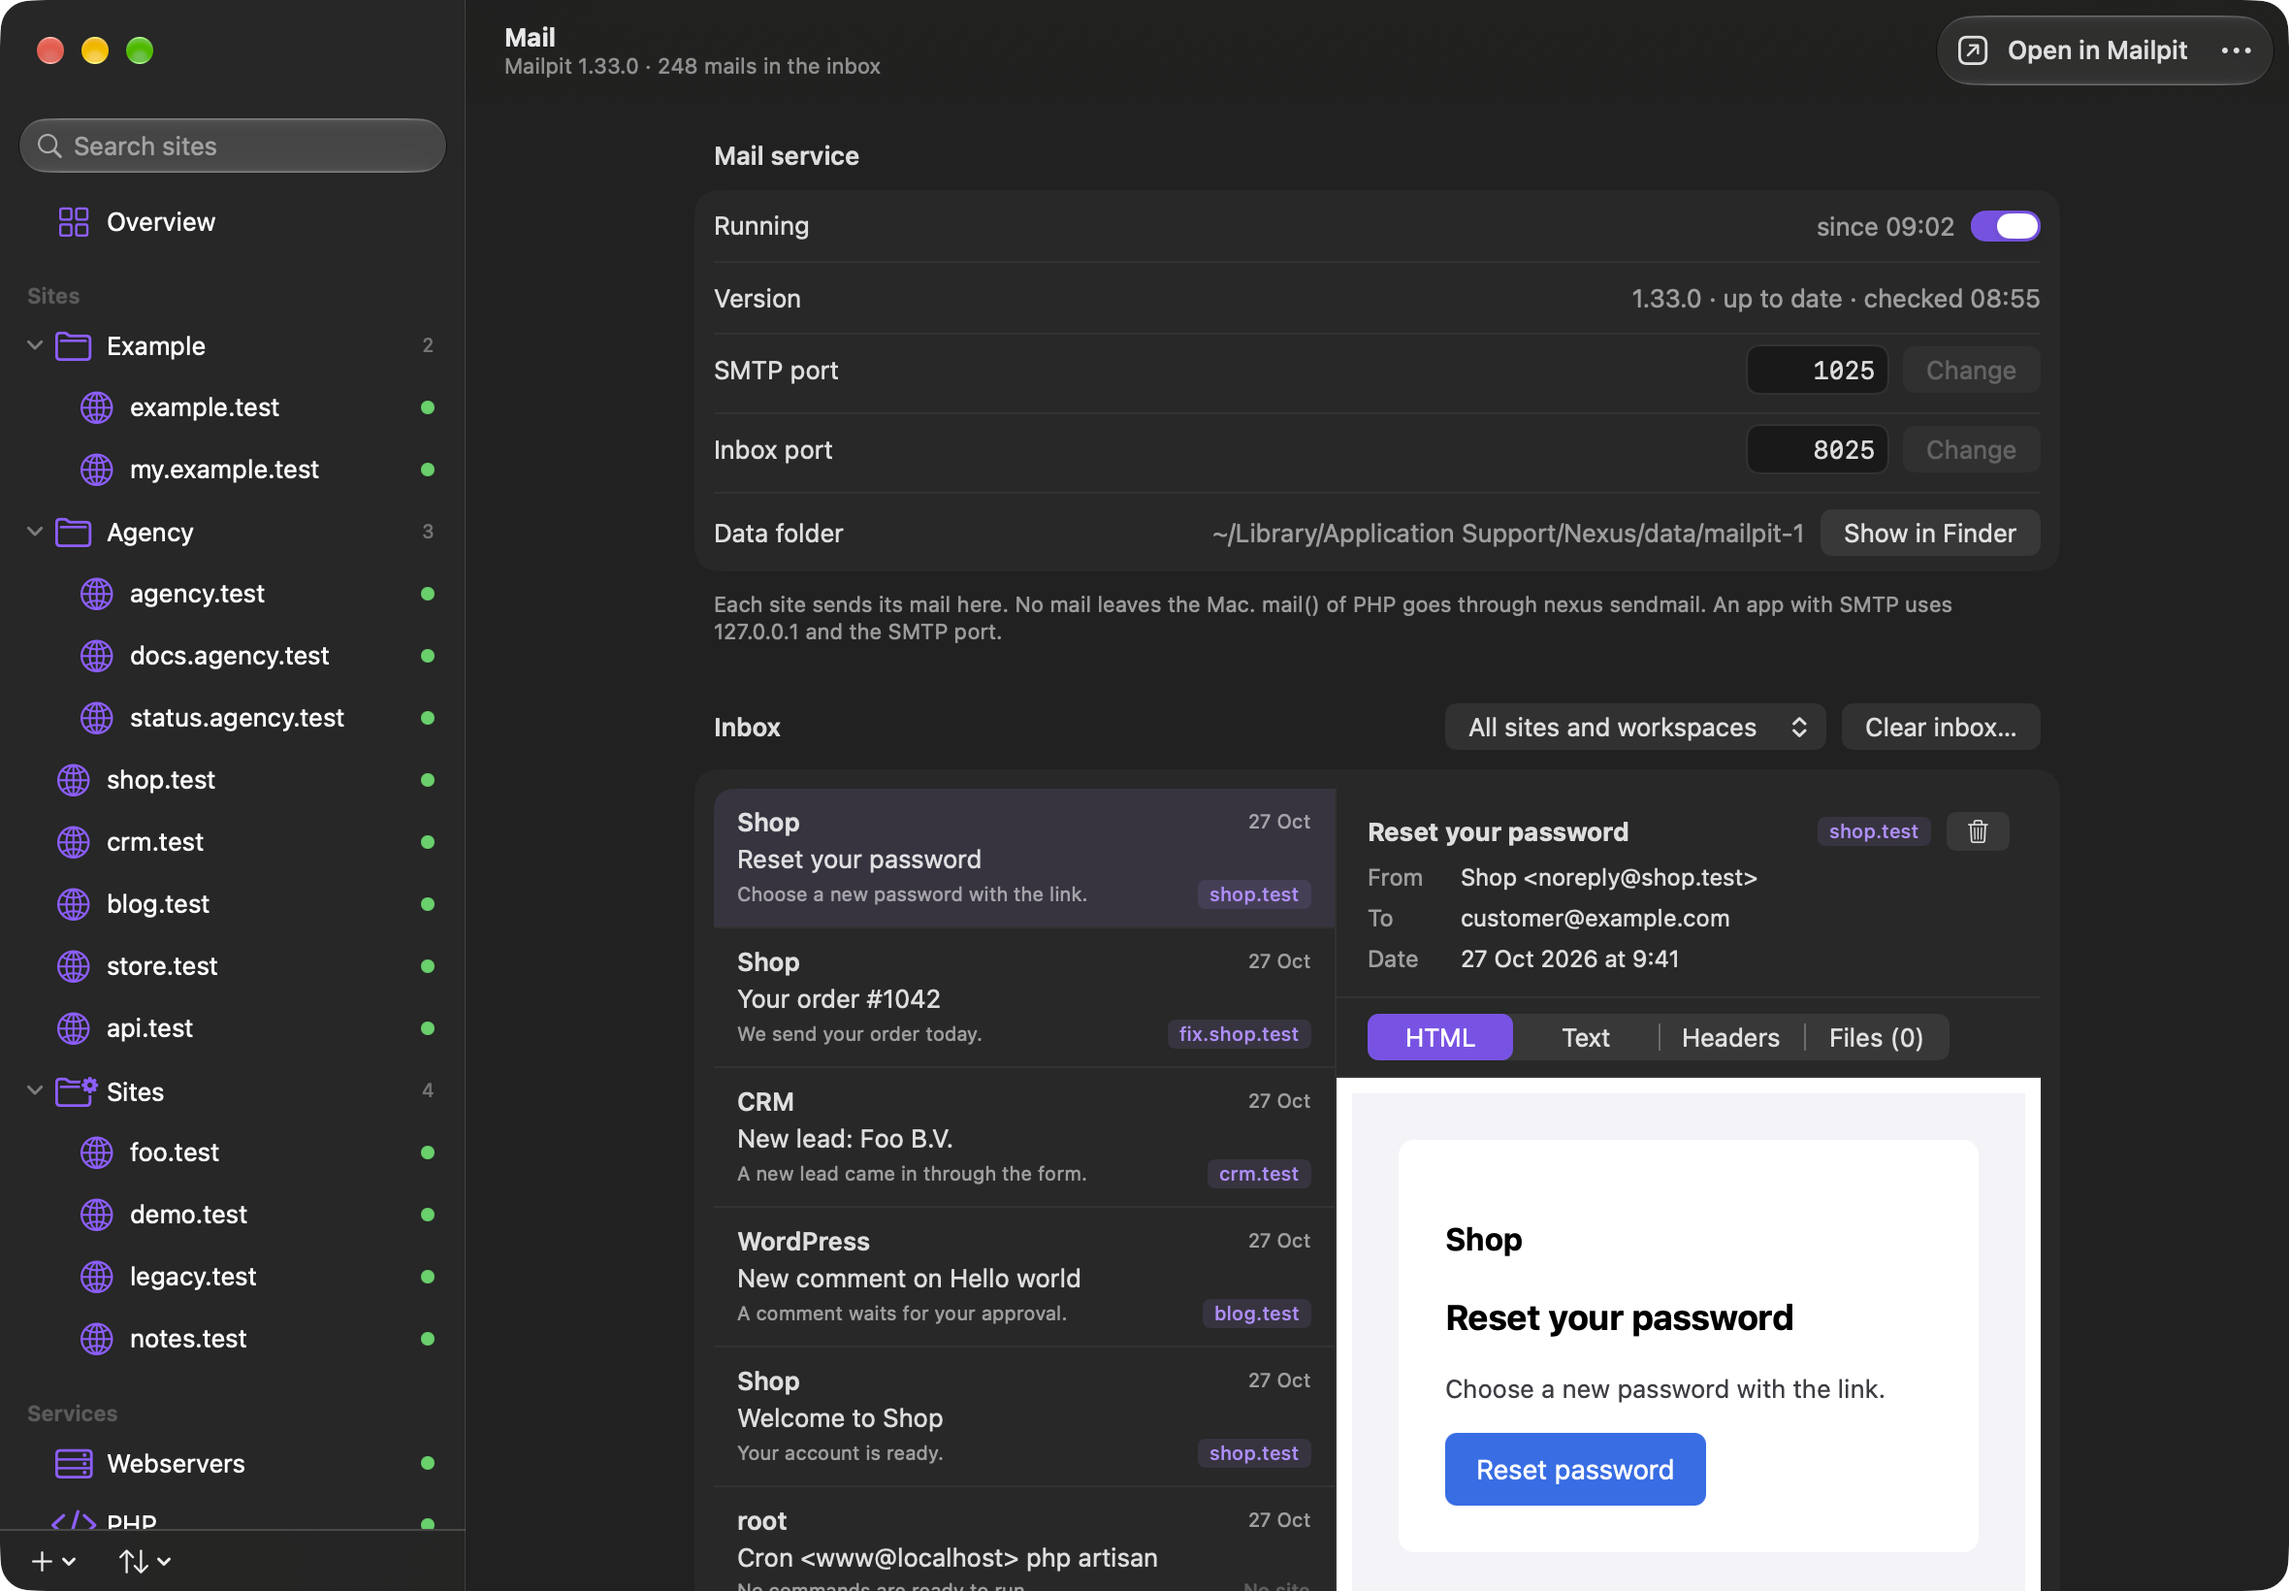
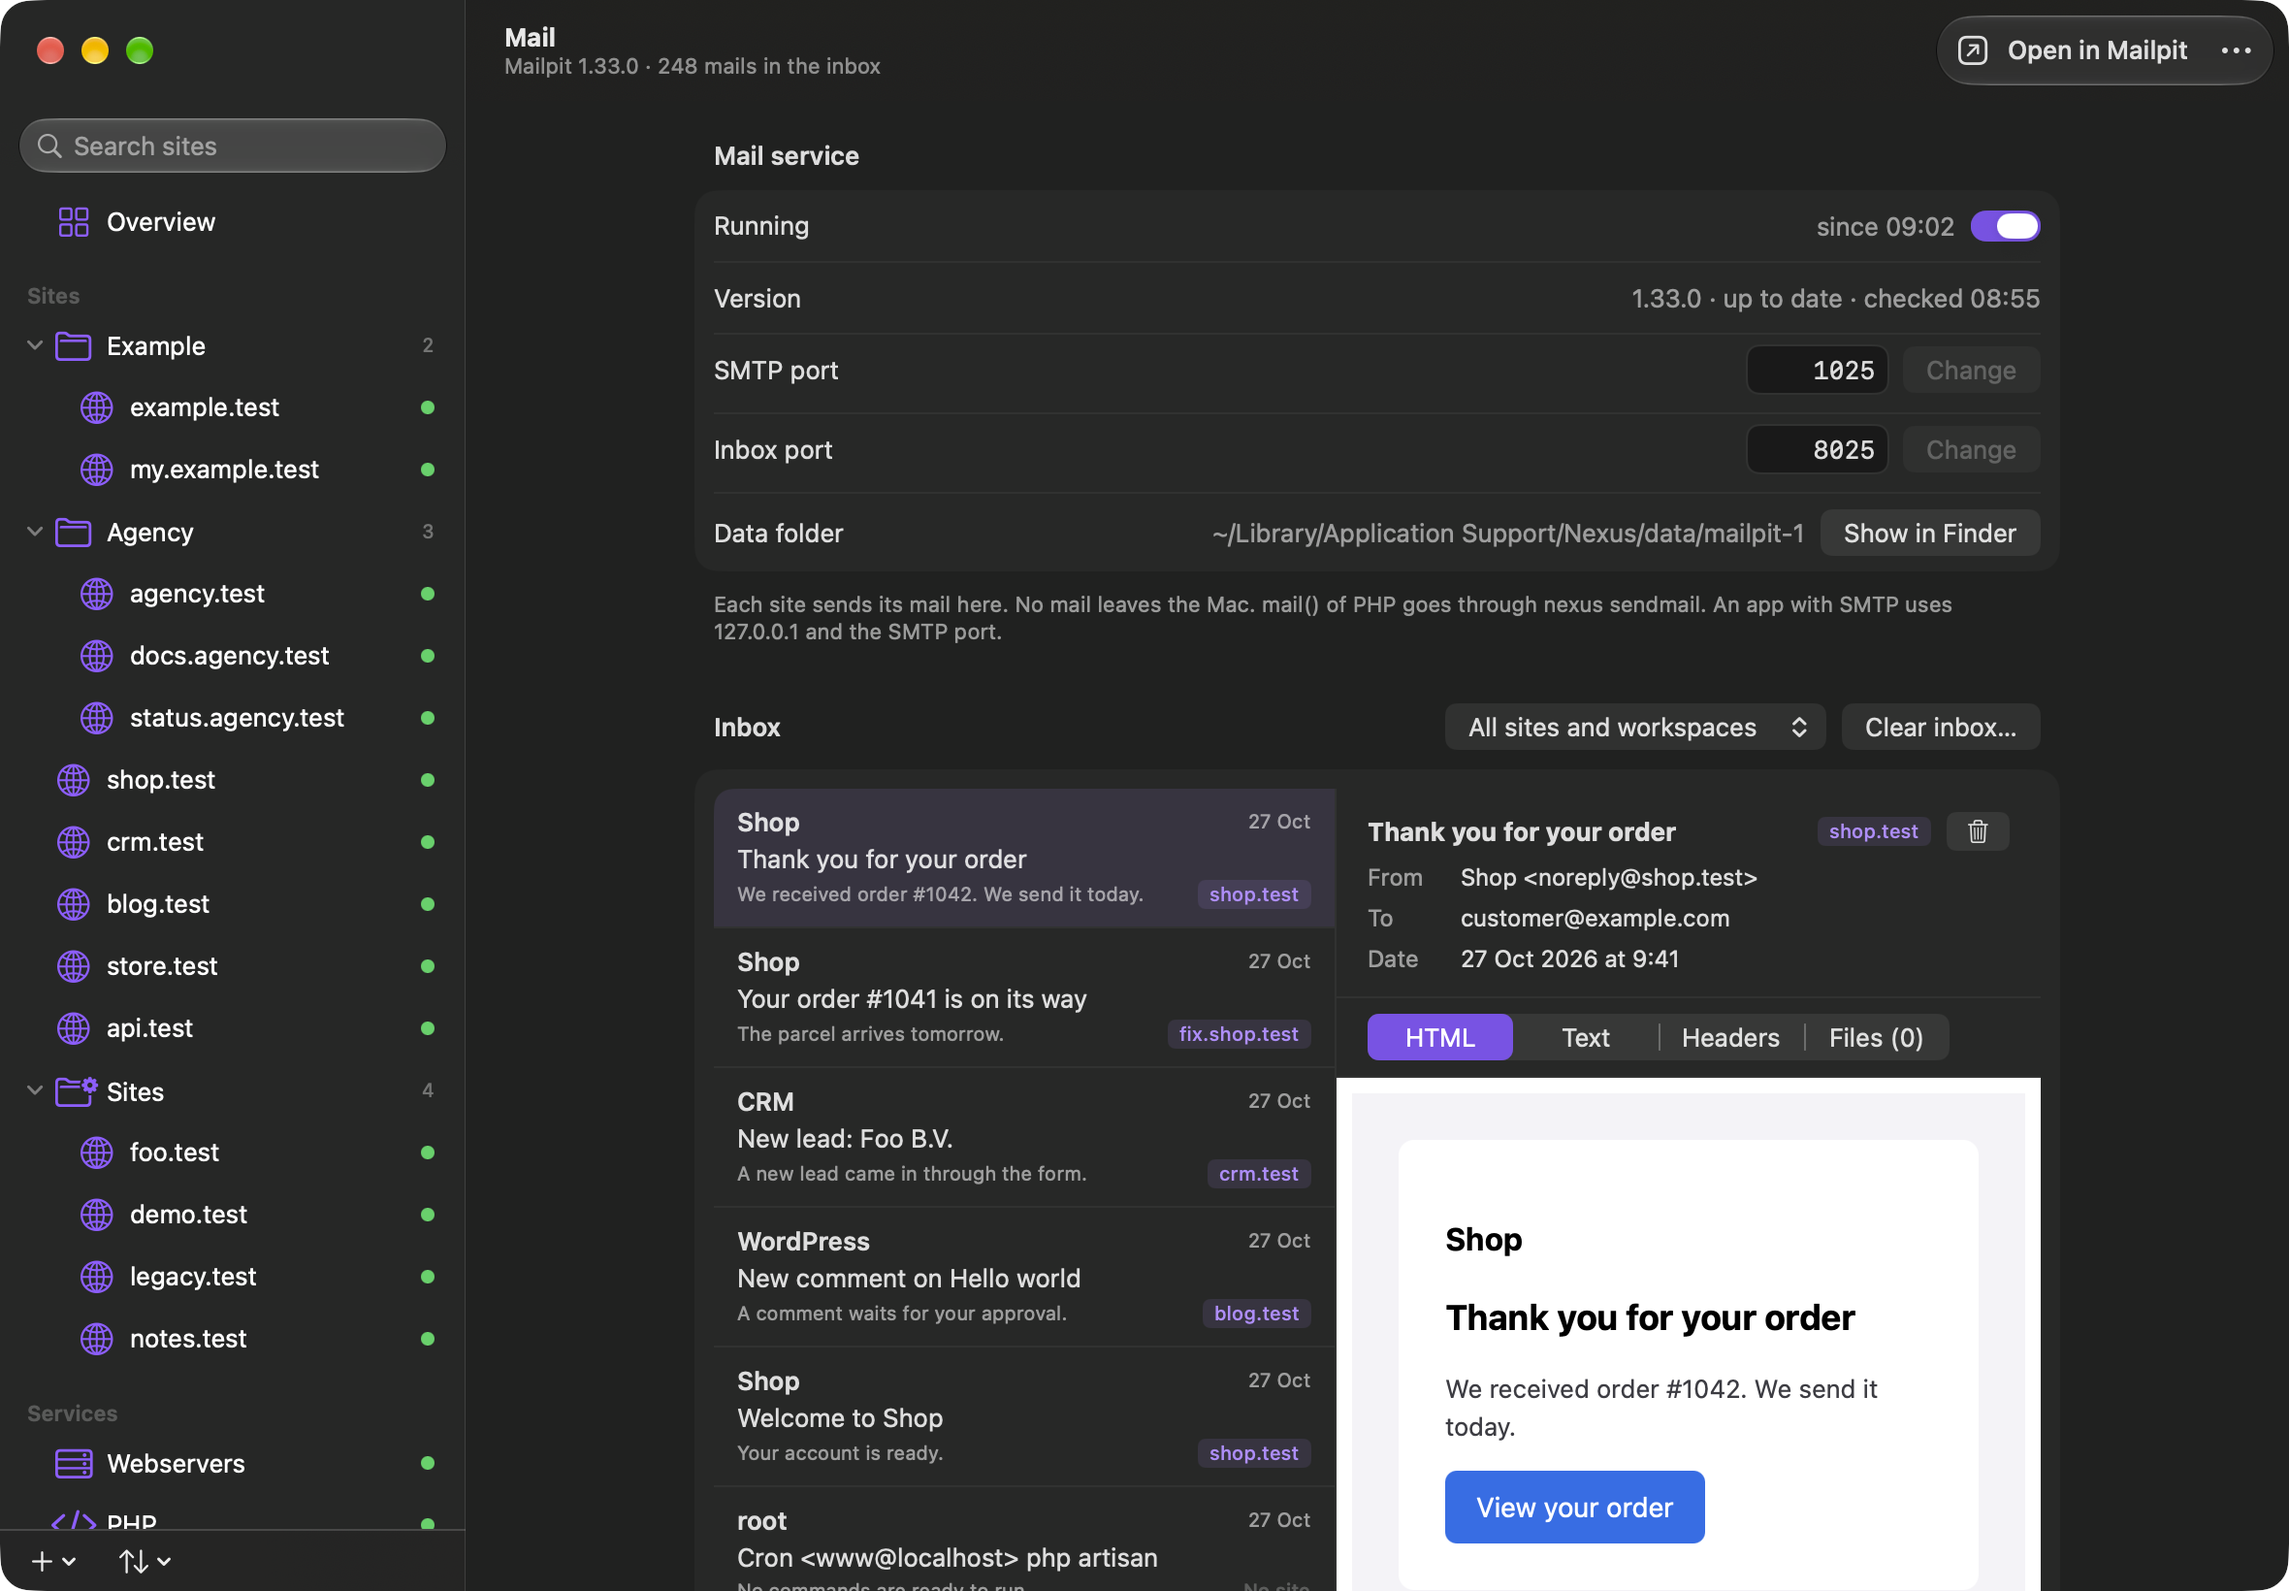
Show an order mail in the sample inbox, and name Mailpit in the README
The first sample mail was a password reset. It is now an order mail,
so the screenshot of the Mail screen shows no password mail. The
README now says that the inbox of Nexus is Mailpit, with a link to it.

diff --git a/Nexus/Model/SampleData.swift b/Nexus/Model/SampleData.swift
@@ -34,8 +34,8 @@ extension AppModel {
     }
 
     private static let sampleMails: [MailpitAPI.Summary] = [
-        ("Shop <noreply@shop.test>", "Reset your password", "Choose a new password with the link.", "shop.test", "09:41"),
-        ("Shop <noreply@shop.test>", "Your order #1042", "We send your order today.", "fix.shop.test", "09:38"),
+        ("Shop <noreply@shop.test>", "Thank you for your order", "We received order #1042. We send it today.", "shop.test", "09:41"),
+        ("Shop <noreply@shop.test>", "Your order #1041 is on its way", "The parcel arrives tomorrow.", "fix.shop.test", "09:38"),
         ("CRM <crm@crm.test>", "New lead: Foo B.V.", "A new lead came in through the form.", "crm.test", "09:20"),
         ("WordPress <wordpress@blog.test>", "New comment on Hello world", "A comment waits for your approval.", "blog.test", "08:55"),
         ("Shop <noreply@shop.test>", "Welcome to Shop", "Your account is ready.", "shop.test", "08:31"),
@@ -55,7 +55,7 @@ extension AppModel {
             <p style="font-weight:700;font-size:16px">Shop</p>
             <h2 style="font-size:18px">\(summary.subject)</h2>
             <p style="color:#3C3C43;font-size:13px;line-height:1.5">\(summary.snippet)</p>
-            <a style="display:inline-block;background:#1F6FEB;color:#fff;padding:9px 16px;border-radius:6px;text-decoration:none">Reset password</a>
+            <a style="display:inline-block;background:#1F6FEB;color:#fff;padding:9px 16px;border-radius:6px;text-decoration:none">View your order</a>
             </div></div>
             """
 

diff --git a/README.md b/README.md
@@ -36,7 +36,7 @@
   click. Changed your mind? Undo it.
 - 📥 **Import a WordPress backup.** From Local, Studio, Jetpack or All-in-One WP Migration.
 - ✨ **A new site in one click.** Laravel, WordPress, Next.js, Nuxt, Vite or Astro.
-- 📬 **A mail inbox for every site.** No test mail ever reaches a real customer.
+- 📬 **A mail inbox for every site.** Built on Mailpit. No test mail ever reaches a real customer.
 - 💜 **Free and open source.** MIT license. No subscription and no paywall, ever.
 
 ## 🌳 A workspace for each branch
@@ -124,10 +124,11 @@ database and a git repository. Then it opens the site over HTTPS. In the termina
 
 ## 📬 A mail inbox for every site
 
-![The Mail screen with the inbox and a password mail of shop.test](.github/mail.png)
+![The Mail screen with the inbox and an order mail of shop.test](.github/mail.png)
 
-Every mail that your sites send goes to the inbox of Nexus. No mail leaves your Mac. Each mail shows
-the site or the workspace that sent it.
+Nexus installs and runs [Mailpit](https://github.com/axllent/mailpit) for you. Every mail that your
+sites send goes to its inbox. No mail leaves your Mac. Each mail shows the site or the workspace that
+sent it. Read your mails in Nexus, or open the web inbox of Mailpit.
 
 ## 📦 The versions that you need
 
